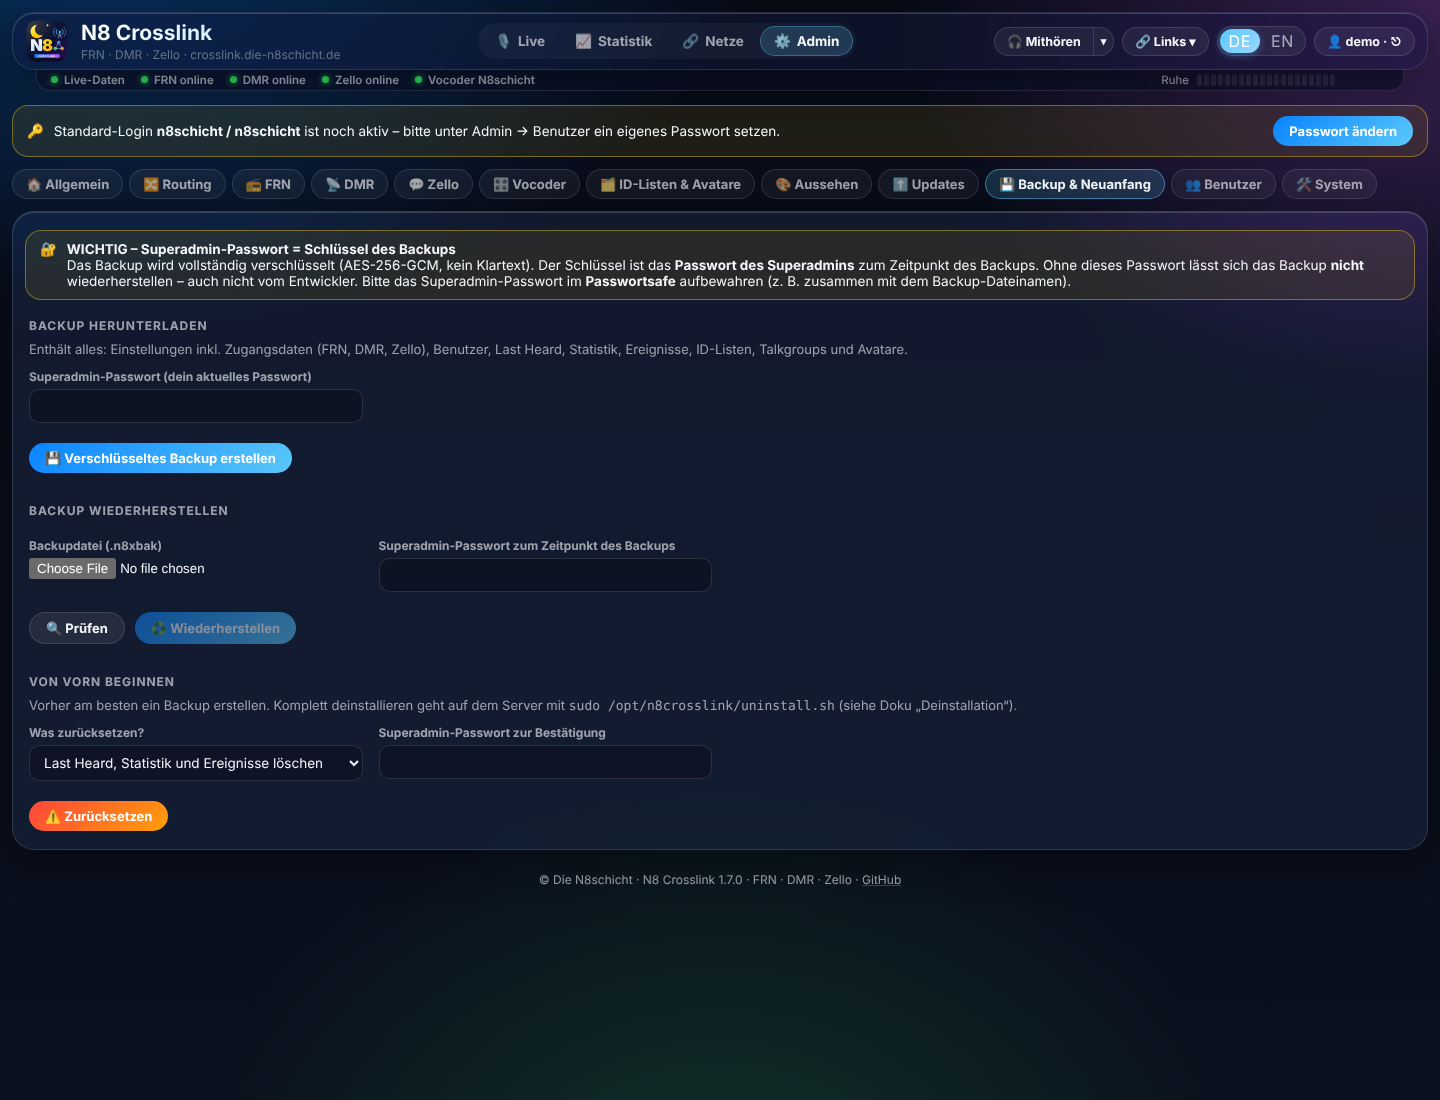
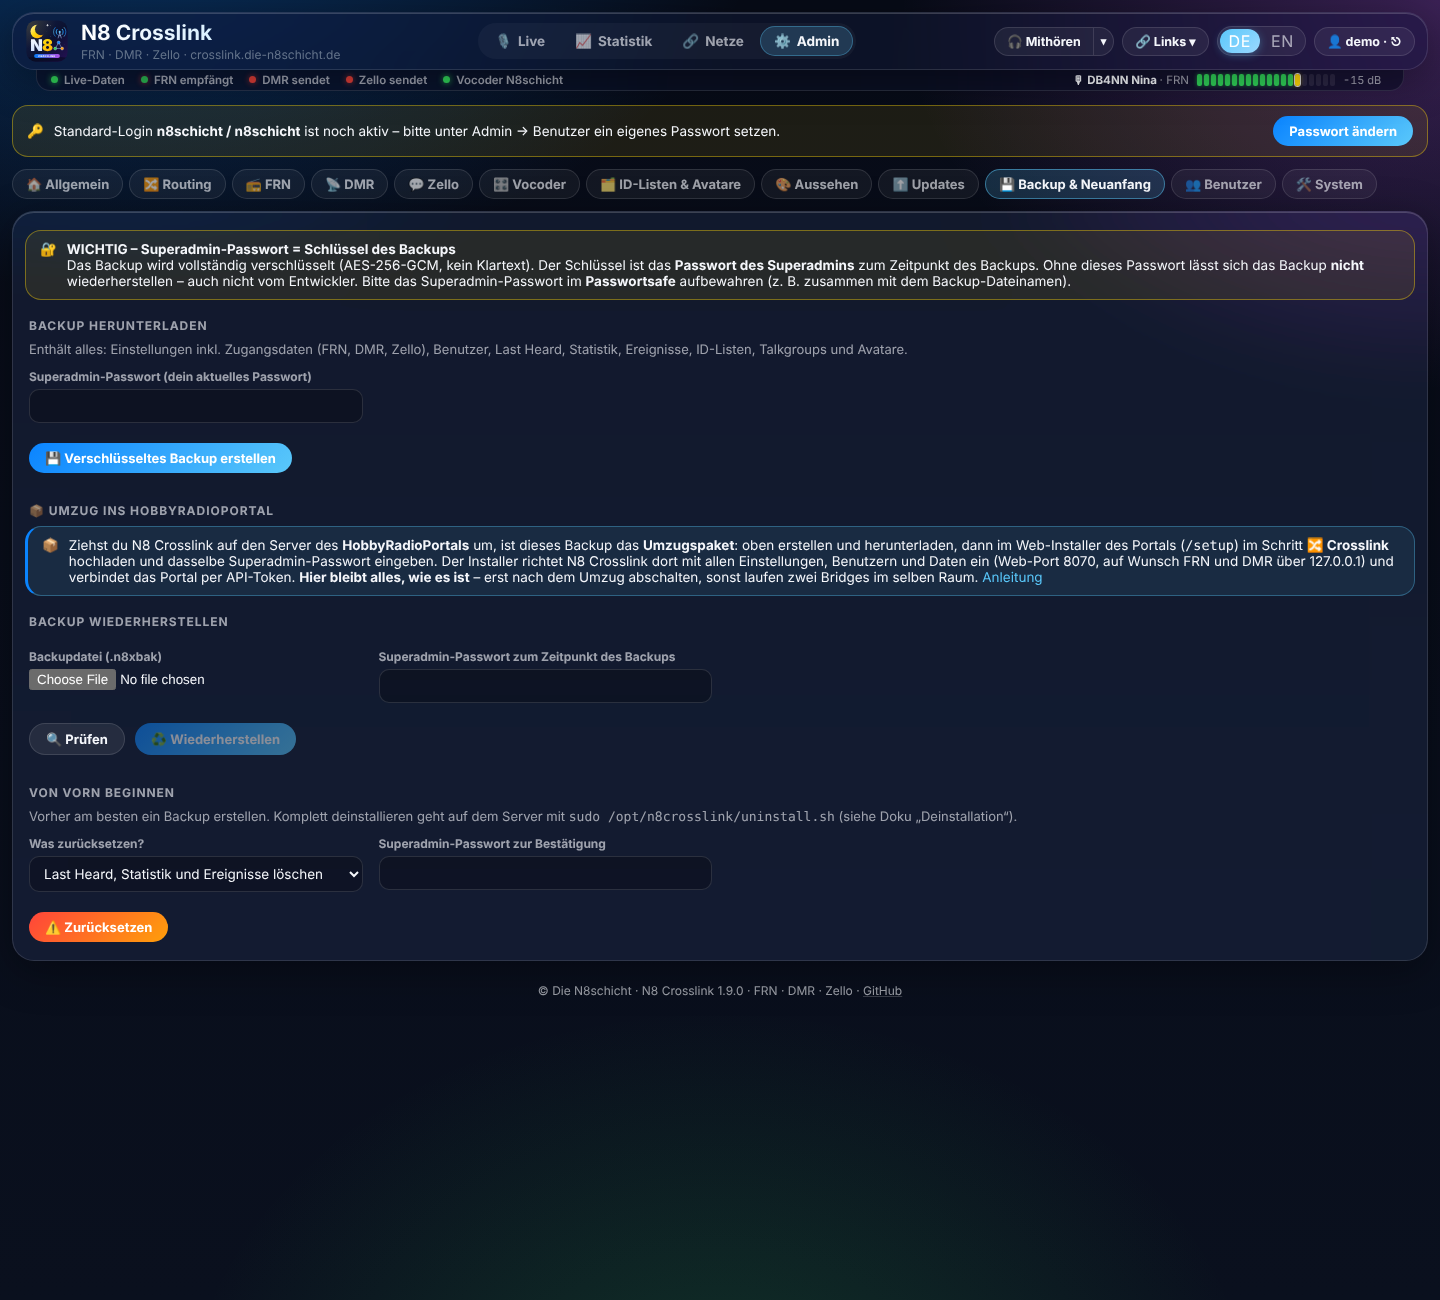
1.9.0: Umzug ins HobbyRadioPortal – Installer ohne Rückfragen aus dem Backup, api-token per CLI
Claude-Session: https://claude.ai/code/session_01J5RG2nh5KG4yZP2DtuvZ9u

Changed region(s): [[0.0, 0.0, 1.0, 0.8036], [0.25, 0.4945, 0.4688, 0.5255]]

diff --git a/n8crosslink/web/static/crosslink.js b/n8crosslink/web/static/crosslink.js
@@ -847,7 +847,7 @@ function renderBackup() {
     <h2 class="section-header">📦 Umzug ins HobbyRadioPortal</h2>
     <div class="banner" style="margin:6px 0 14px;align-items:flex-start;border-left:3px solid #0a84ff">📦 <div class="grow">
       Ziehst du N8 Crosslink auf den Server des <b>HobbyRadioPortals</b> um, ist dieses Backup das <b>Umzugspaket</b>:
-      oben erstellen und herunterladen, dann im Web-Installer des Portals unter <b>Crosslink übernehmen</b> hochladen und dasselbe Superadmin-Passwort eingeben.
+      oben erstellen und herunterladen, dann im Web-Installer des Portals (<code>/setup</code>) im Schritt <b>🔀 Crosslink</b> hochladen und dasselbe Superadmin-Passwort eingeben.
       Der Installer richtet N8 Crosslink dort mit allen Einstellungen, Benutzern und Daten ein (Web-Port 8070, auf Wunsch FRN und DMR über 127.0.0.1)
       und verbindet das Portal per API-Token. <b>Hier bleibt alles, wie es ist</b> – erst nach dem Umzug abschalten, sonst laufen zwei Bridges im selben Raum.
       <a href="https://github.com/dhartmann1979/HobbyRadioPortal/blob/main/docs/UMZUG.md" target="_blank" rel="noopener">Anleitung</a></div></div>

diff --git a/n8crosslink/__init__.py b/n8crosslink/__init__.py
@@ -1,2 +1,2 @@
 """N8 Crosslink – FRN · DMR · Zello Bridge im Die-N8schicht-Design."""
-__version__ = "1.8.0"
+__version__ = "1.9.0"

diff --git a/README.md b/README.md
@@ -30,7 +30,7 @@ Alles läuft in **einem** Python-Dienst mit Live-Dashboard und Adminportal – i
 | 🎛 **N8schicht-Vocoder** | Eigener Software-AMBE+2-Vocoder (Fork des DroidStar-Codecs, Quellen im Repository): nativ auf x86 und ARM (auch 32 Bit), eigener absturzsicherer Prozess, auf **Verständlichkeit gemessen abgestimmt** (ESTOI/PESQ), Frequenzgang bis 4 kHz. **Klang-Popup** mit Reglern, die live wirken, und Probehören (Eingang ↔ Ausgang, eigene WAV-Dateien). Alternativ **USB-Stick** (ThumbDV, DVstick 30, DV3000) oder AMBEserver |
 | 📧 **FRN-Passwort anfordern** | Knopf im FRN-Adminbereich: Registrierung beim FRN-System-Manager, Ergebnis als Status-Popup, Passwort kommt per E-Mail |
 | 🎧 **Mithören** | Angemeldete Admins hören die aktive Durchsage direkt im Browser mit (aus jedem Netz) – Knopf oben im Menü, Lautstärke im Dropdown am kleinen Pfeil. In der Statusleiste stehen Sprecher und eine **segmentierte Pegelanzeige** mit Spitzenwert |
-| 💾 **Backup** | Alles als vollständig verschlüsselte Datei zum Download (AES-256-GCM). **Der Schlüssel ist das Superadmin-Passwort – im Passwortsafe aufbewahren!** Wiederherstellen im Webinterface, per CLI oder direkt im Installer |
+| 💾 **Backup** | Alles als vollständig verschlüsselte Datei zum Download (AES-256-GCM). **Der Schlüssel ist das Superadmin-Passwort – im Passwortsafe aufbewahren!** Wiederherstellen im Webinterface, per CLI oder direkt im Installer – auch ohne Rückfragen. **📦 Umzug ins HobbyRadioPortal**: Backup im Web-Installer des Portals hochladen |
 | ♻ **Neuanfang** | Zurücksetzen im Webinterface (Verlauf / Einstellungen / alles) und `uninstall.sh` mit „Daten behalten“ oder „komplett entfernen“, inkl. Wiedereinschalten der alten Dienste |
 | 📊 **Dashboard** | On-Air-Anzeige mit Pegel und Zeit, Netzkarten mit RX/TX, Last Heard, FRN-Raumliste, Ereignisse, Statistik (Heute … 90 Tage) |
 | ⚙ **Adminportal** | Alle Einstellungen in SQLite, Benutzerverwaltung, Bridge-/Dienst-Neustart, ID-Datenbank-Update, Export/Import |
@@ -116,7 +116,7 @@ Senden in die Netze:
 * [Technik & Protokolle](docs/TECHNIK.md)
 * [Betrieb: Watchdogs, Updates, sudo & Berechtigungen](docs/BETRIEB.md)
 * [Sicherheit, Sprache DE/EN & N8 Kit (gemeinsam mit HBlink4, adn-frn-server, N8-HotSpot)](docs/SICHERHEIT.md)
-* [Backup & Wiederherstellung](docs/BACKUP.md)
+* [Backup & Wiederherstellung](docs/BACKUP.md) – mit Umzug ins HobbyRadioPortal
 * [Deinstallation & von vorn beginnen](docs/DEINSTALLATION.md)
 * [Branding & Site-Icons](docs/BRANDING.md)
 * [Fehlersuche](docs/FEHLERSUCHE.md)

diff --git a/CHANGELOG.md b/CHANGELOG.md
@@ -2,6 +2,34 @@
 
 Alle Änderungen an N8 Crosslink. Versionierung nach [SemVer](https://semver.org/lang/de/).
 
+## [1.9.0] – 2026-11-24
+
+**Umzug ins HobbyRadioPortal: das verschlüsselte Backup ist das Umzugspaket – der Web-Installer des Portals richtet N8 Crosslink damit
+auf seinem Server ein, ohne eine einzige Rückfrage.** Ausführlich: [docs/BACKUP.md](docs/BACKUP.md#umzug-ins-hobbyradioportal) und
+die [Umzugsanleitung des Portals](https://github.com/dhartmann1979/HobbyRadioPortal/blob/main/docs/UMZUG.md).
+
+### 📦 Admin → 💾 Backup & Neuanfang → Umzug ins HobbyRadioPortal
+- Neuer Abschnitt: Crosslink läuft meist nur im LAN, das Portal kann ihn von seinem Server aus nicht erreichen – deshalb geht der Umzug
+  per Datei: **Verschlüsseltes Backup erstellen**, im Web-Installer des Portals im Schritt **🔀 Crosslink** hochladen und dasselbe
+  Superadmin-Passwort eingeben. **Hier bleibt alles, wie es ist**, bis du den alten Crosslink abschaltest.
+
+### 🛠 Installer ohne Rückfragen (für den Umzug)
+- `install.sh` liest auf Wunsch alles aus der Umgebung und fragt nichts:
+  - `N8X_RESTORE=/pfad/backup.n8xbak` – Backup einspielen (wie „Backup einspielen“ im Installer)
+  - `N8X_RESTORE_PASSWORD_FILE=/pfad/datei` – Superadmin-Passwort des Backups (erste Zeile; nie über die Kommandozeile)
+  - `N8X_WEB_PORT=8070` – Web-Port auf dem neuen Server (dort belegt das HBlink4-Dashboard meist 8080)
+  - `N8X_LOCAL_LINKS=1` – FRN- und DMR-Server auf `127.0.0.1` umstellen (laufen jetzt auf demselben Rechner)
+  - `N8X_PORTAL_TOKEN_FILE=/pfad/datei` – API-Token „HobbyRadioPortal“ anlegen und dorthin schreiben (600)
+- Falsches Passwort oder kaputte Datei: der Installer bricht mit klarer Meldung ab, statt neu einzurichten.
+- Der Rest bleibt wie beim normalen Installieren: Pakete, Dienstbenutzer, venv, Vocoder bauen, Dienste, **Rechte prüfen und korrigieren**.
+
+### ⌨ Kommandozeile
+- `python -m n8crosslink.cli api-token NAME` – legt einen Portal-Token an und gibt ihn einmal aus (nutzt der Installer).
+
+### 🧪 Tests
+- `tests/test_api_tokens.py`: Token über die Kommandozeile, ungültiger Name.
+- Mit dem Portal geprüft: ein echtes Backup dieser Version wird dort entschlüsselt und gelesen (Manifest, Zahlen); falsches Passwort wird erkannt.
+
 ## [1.8.0] – 2026-11-24
 
 **Portal-Zugang: N8 Crosslink lässt sich komplett im HobbyRadioPortal einstellen – und der Titel nennt nur noch die eingeschalteten Netze.**

diff --git a/docs/BACKUP.md b/docs/BACKUP.md
@@ -41,3 +41,25 @@ sudo systemctl restart n8crosslink
 ```
 
 Beim Neuinstallieren fragt `install.sh` direkt nach einem Backup, und `uninstall.sh` bietet vorher eines an.
+
+## Umzug ins HobbyRadioPortal
+
+Ziehst du N8 Crosslink auf den Server des [HobbyRadioPortals](https://github.com/dhartmann1979/HobbyRadioPortal) um (dort laufen meist
+auch FRN-Server und HBlink4), ist dieses Backup das **Umzugspaket** (ab 1.9.0):
+
+1. Hier als Superadmin **⚙ Admin → 💾 Backup & Neuanfang → Verschlüsseltes Backup erstellen** und die `.n8xbak`-Datei herunterladen.
+2. Im Web-Installer des Portals (`http://<neuer Server>/setup`) im Schritt **🔀 Crosslink** die Datei hochladen, das Superadmin-Passwort
+   eingeben und **🔍 Prüfen** – das Portal zeigt Version, Rechner, Datum und Zahlen aus dem Backup.
+3. *N8 Crosslink auf diesen Server umziehen* wählen; Haken **FRN- und DMR-Server über 127.0.0.1**, wenn beide auf den neuen Server
+   kommen. Beim Umzug holt der Root-Helfer des Portals N8 Crosslink von GitHub und ruft `install.sh` ohne Rückfragen auf:
+
+```bash
+N8X_RESTORE=/root/hrp-xl.…/backup.n8xbak N8X_RESTORE_PASSWORD_FILE=/root/hrp-xl.…/pw \
+N8X_WEB_PORT=8070 N8X_LOCAL_LINKS=1 N8X_PORTAL_TOKEN_FILE=/root/hrp-xl.…/token ./install.sh
+```
+
+4. Danach den **alten Crosslink abschalten**, sonst laufen zwei Bridges im selben Raum: `sudo systemctl disable --now n8crosslink`.
+
+Das Passwort liegt nur kurz in einer Datei (600, nur root bzw. der Dienst des Portals) und wird nach dem Umzug gelöscht, ebenso die
+hochgeladene Backupdatei. Diese Variablen gehen auch ohne Portal – z. B. für einen eigenen Umzug per Skript.
+

diff --git a/docs/INSTALLATION.md b/docs/INSTALLATION.md
@@ -35,6 +35,11 @@ Der Installer fragt Schritt für Schritt:
 
 Alle Einstellungen liegen danach in `/opt/n8crosslink/data/crosslink.db` und sind im Adminportal änderbar.
 
+### Ohne Rückfragen aus einem Backup (Umzug)
+
+Für Skripte und den Web-Installer des HobbyRadioPortals: `N8X_RESTORE` (Backupdatei), `N8X_RESTORE_PASSWORD_FILE` (Passwort in der
+ersten Zeile), optional `N8X_WEB_PORT`, `N8X_LOCAL_LINKS=1` und `N8X_PORTAL_TOKEN_FILE` – siehe [Backup → Umzug](BACKUP.md#umzug-ins-hobbyradioportal).
+
 ## Standard-Login
 
 Beim ersten Start gibt es den Superadmin **`n8schicht`** mit Passwort **`n8schicht`**. Solange dieses Passwort aktiv ist, zeigt das Dashboard nach dem Login einen Hinweis mit Knopf „Passwort ändern“ (Admin → 👥 Benutzer).
